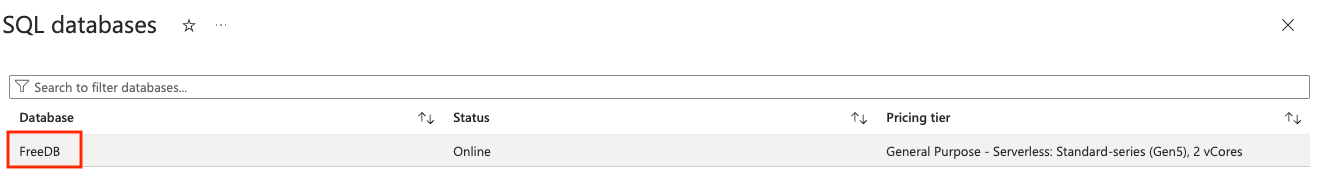
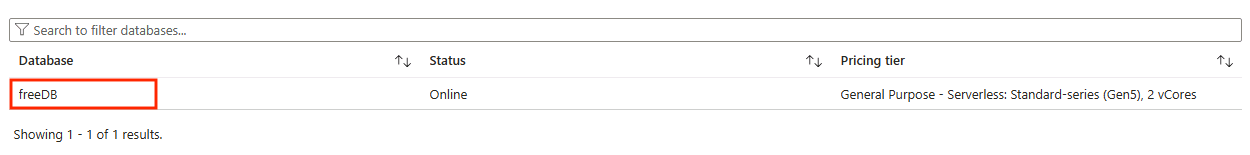
ch2

diff --git a/docs/2-create-azure-SQL-database.md b/docs/2-create-azure-SQL-database.md
@@ -142,9 +142,9 @@ The next section of the workshop you will be creating and connecting to an Azure
 
     ![A picture of clicking the Azure SQL Databases option under settings](./media/ch2/deploy2a.png)
 
-1. Next, on the main page, find the FreeDB you created and click on it navigate to the database details page.
+1. Next, on the main page, find the freeDB you created and click on it navigate to the database details page.
 
-    ![A picture of clicking the FreeDB SQL Databases](./media/ch2/deploy2b.png)
+    ![A picture of clicking the freeDB SQL Databases](./media/ch2/deploy2b.png)
 
 1. Using the menu options on the left side, find and click on **Query editor (preview)**.
 
@@ -168,6 +168,10 @@ The next section of the workshop you will be creating and connecting to an Azure
 
     ![A picture of downloading or launching Azure Data Studio from the Azure portal](./media/ch2/deploy3b.png)
 
+1. When Azure Data Studio opens, you may be presented with a dialog window asking **"Are you sure you want to connect?"**. Click the **Open** button.
+
+    ![A picture of click the Open button in Azure Data Studio connection dialog box](./media/ch2/deploy3b1.png)
+
 1. The link will launch Azure Data Studio and pre-create a database connection profile with the database details for the Azure SQL Database that was just created. Start by changing the **Authentication Type** to **Microsoft Entra ID**.
 
     ![A picture of changing the Authentication Type to Microsoft Entra ID](./media/ch2/deploy3c.png)
@@ -176,9 +180,17 @@ The next section of the workshop you will be creating and connecting to an Azure
 
     ![A picture of selecting your email address for the account field](./media/ch2/deploy3d.png)
 
-1. If no account has been set/logged in, select the **Add an account** option and authenticate via the Azure portal.
+1. If no account has been set/logged in, select the **Add an account** option
 
     ![A picture of selecting the Add an account option and authenticate via the Azure portal](./media/ch2/deploy3e.png)
+
+    and authenticate via the Azure portal.
+
+    ![A picture of authenticating via the Azure portal](./media/ch2/deploy3e1.png)
+
+    Once authenticated, you can close the browser tab and return to Azure Data Studio.
+
+    ![A picture of a successful authentication via the Azure portal](./media/ch2/deploy3e2.png)
 
 1. Once connected to the database, right click on the connection name in the connection navigator on the left side and choose **New Query**.
 
